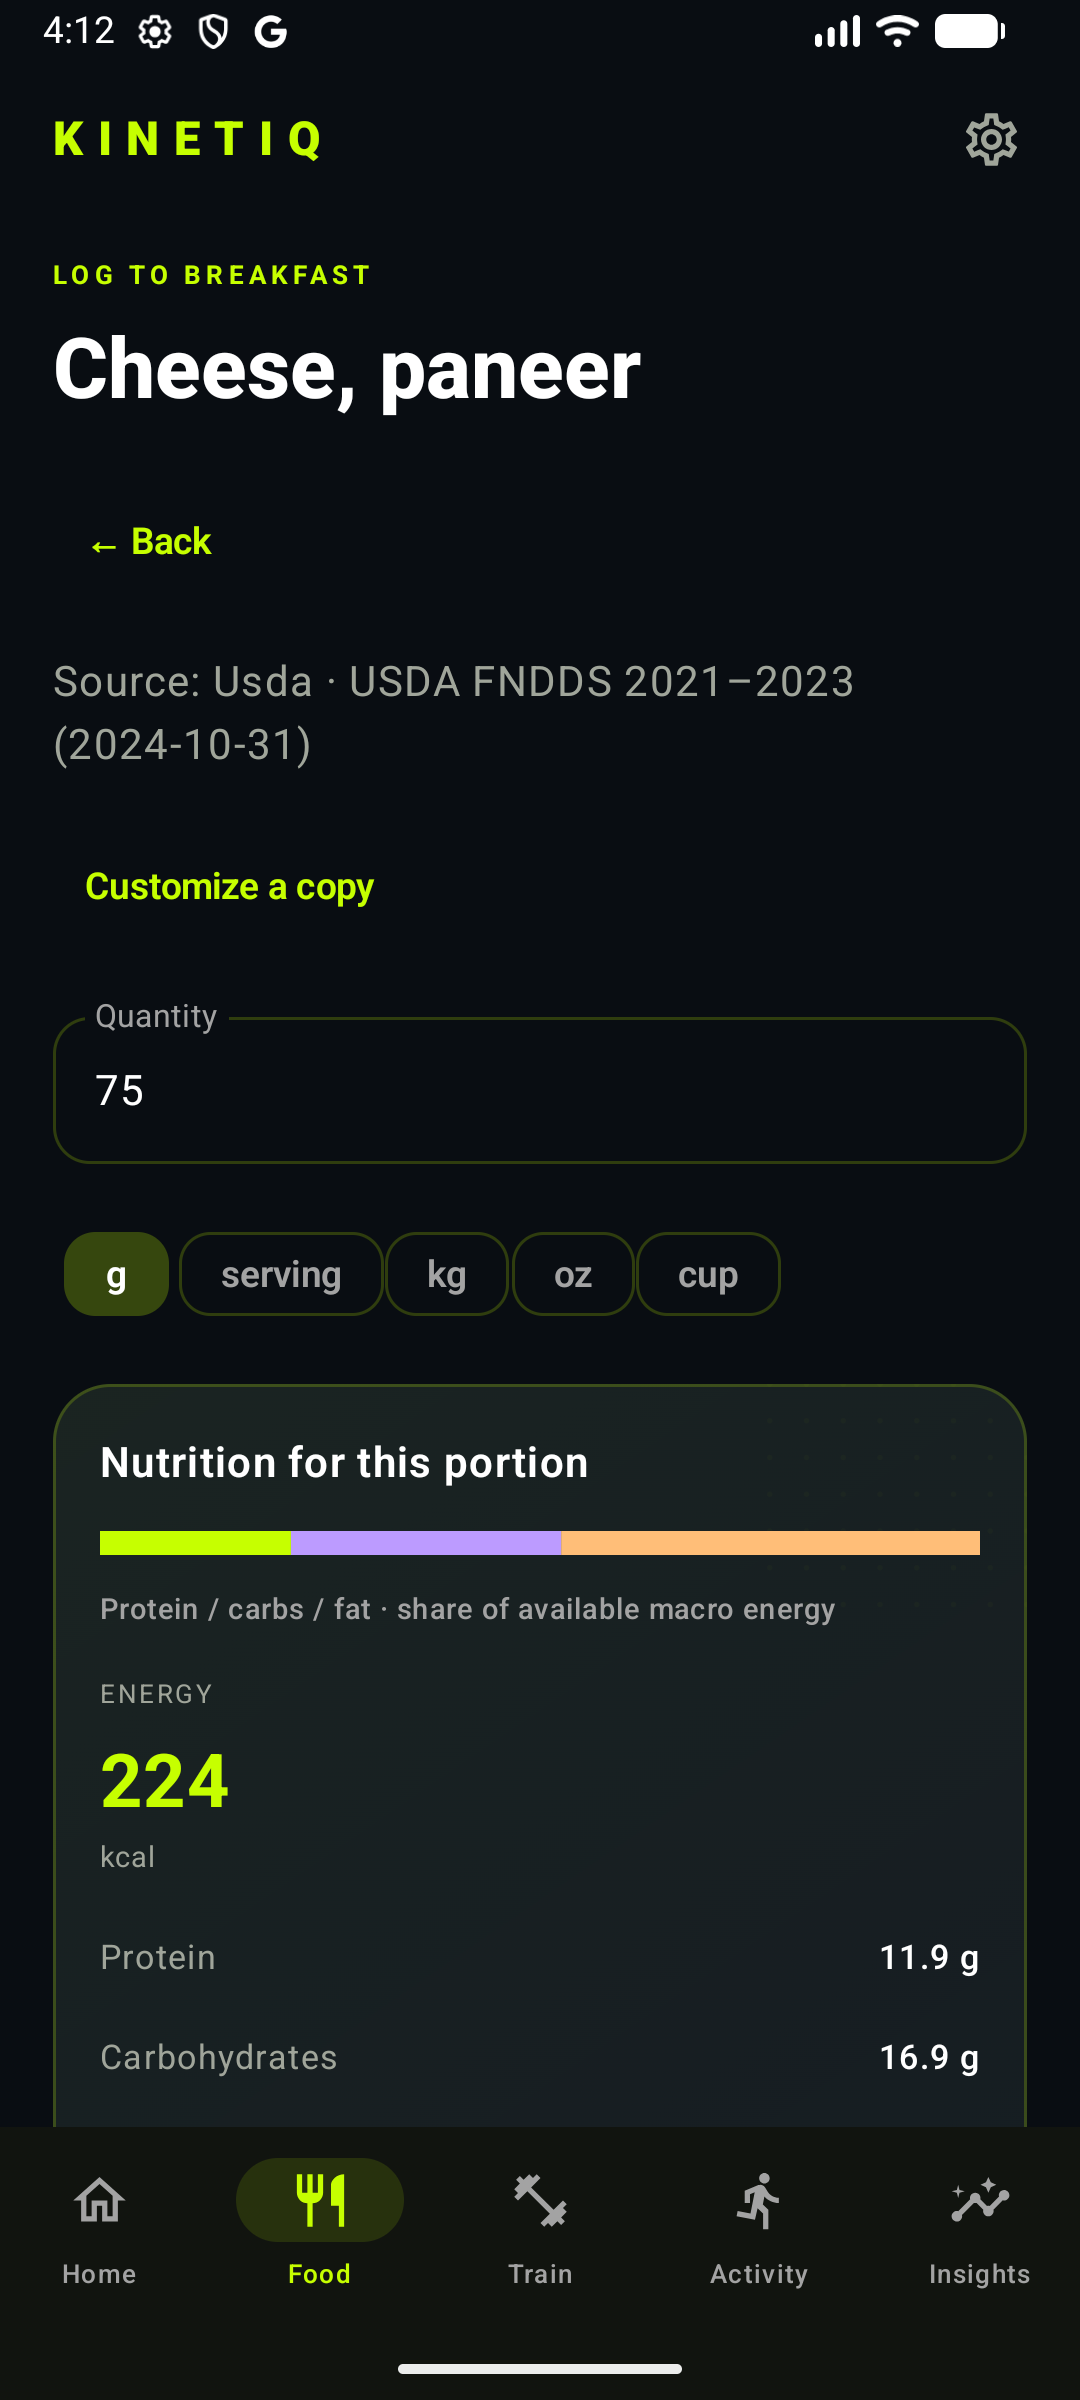
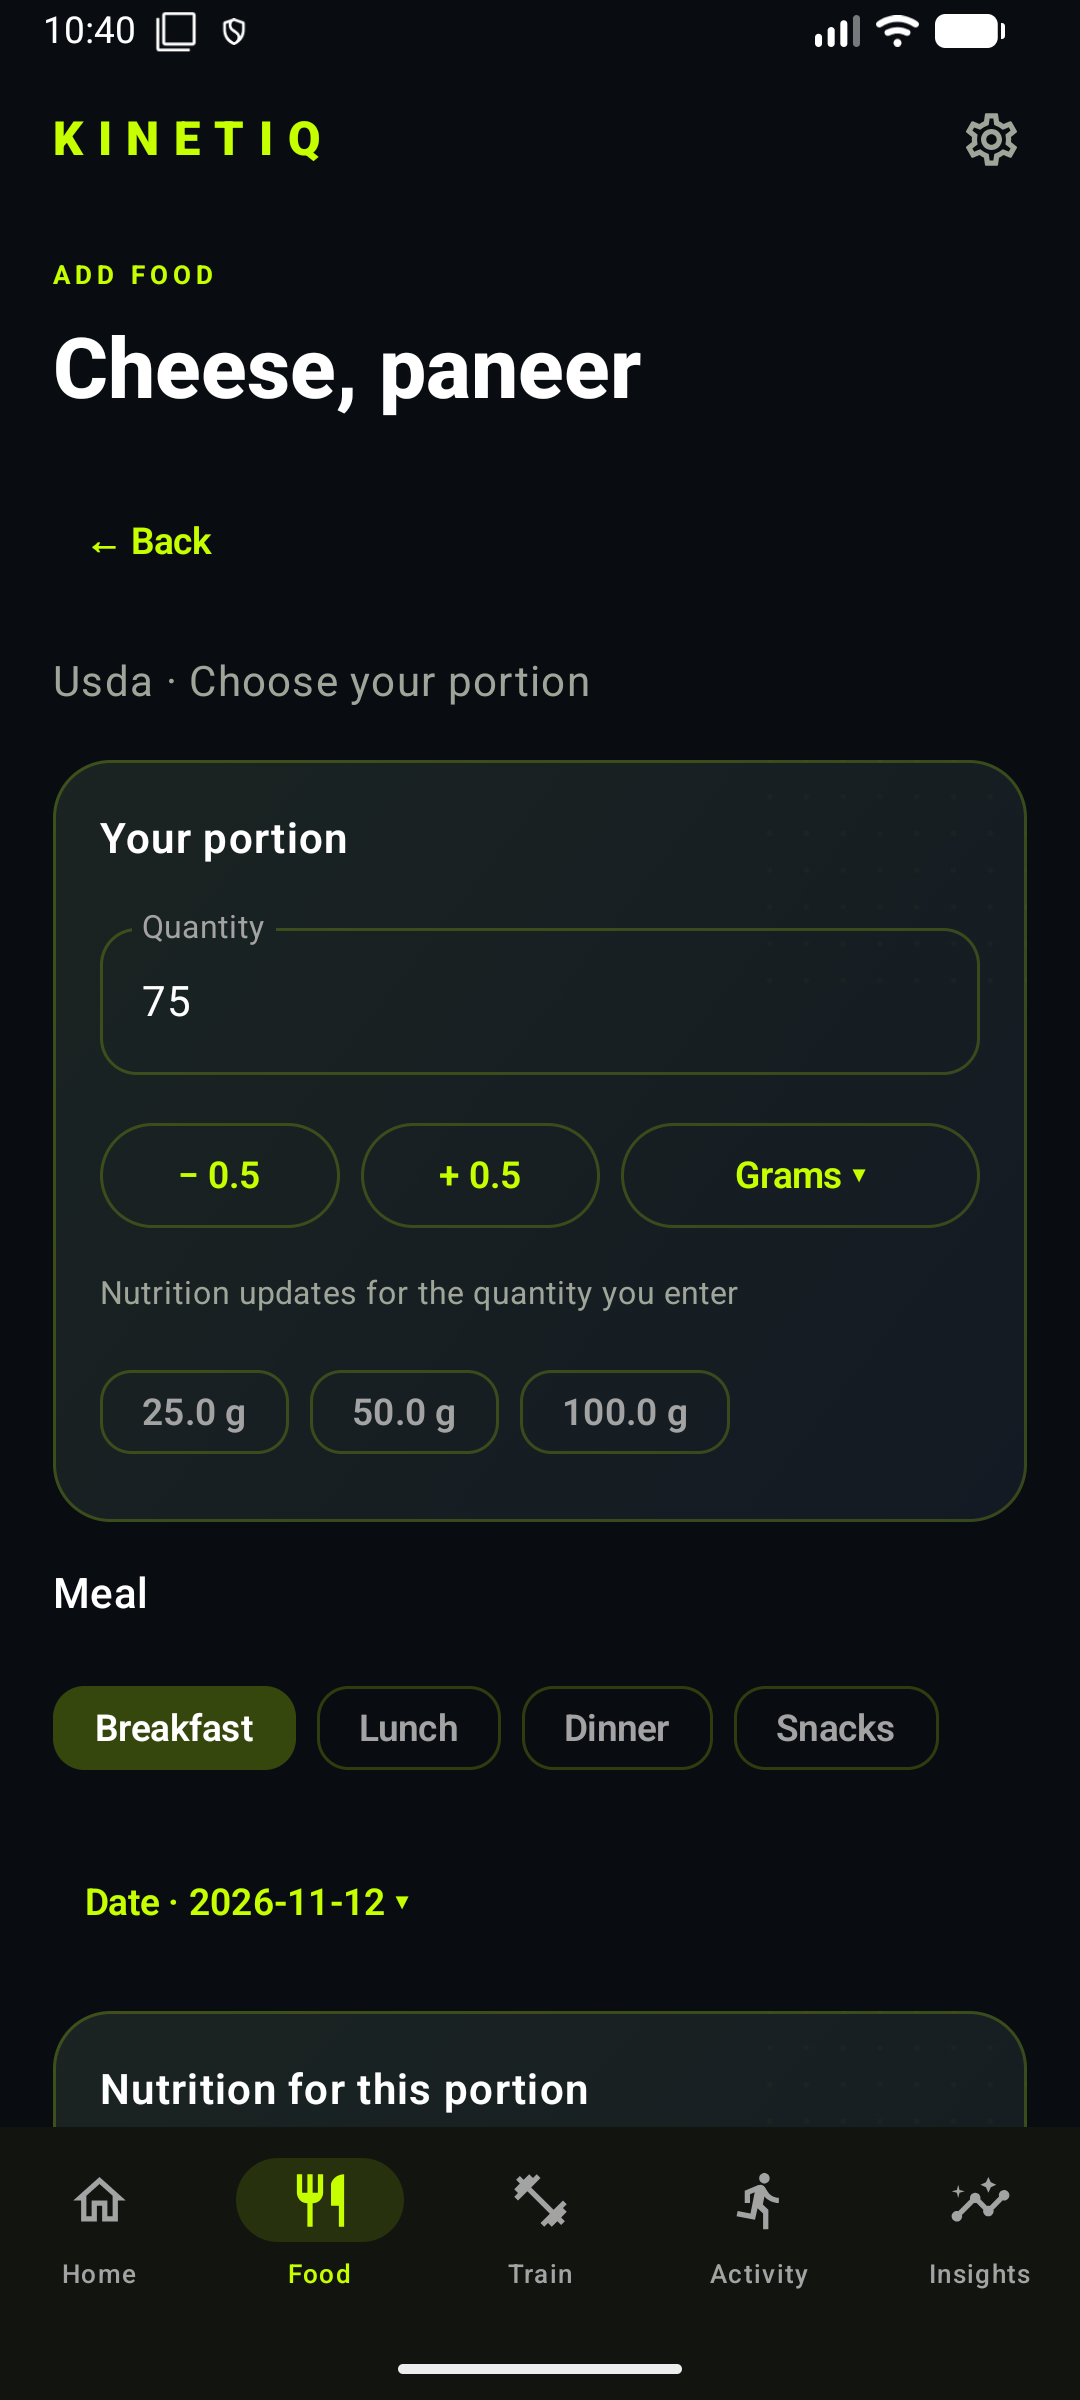
Present KINETIQ smart nutrition Beta with isolated QA screenshots

diff --git a/README.md b/README.md
@@ -6,18 +6,20 @@ I wanted a fitness app that brought those things together, so I started building
 
 **[Download the Beta APK →](https://github.com/vaishnavg121/kinetiq-releases/releases)**
 
-Current Beta: **2.4.0-beta.2 · code 8** ([release and APKs](https://github.com/vaishnavg121/kinetiq-releases/releases/tag/v8-beta)). [Verification](READABILITY.md) · [Updated selection screens](docs/assets/).
+Current Beta: **2.6.0-beta.1 · code 10** ([release and APKs](https://github.com/vaishnavg121/kinetiq-releases/releases/tag/v10-beta)).
 
 <table>
 <tr><td><img src="docs/assets/01-home.png" width="260" alt="KINETIQ Home"></td><td><img src="docs/assets/03-food-search.png" width="260" alt="Offline food search"></td><td><img src="docs/assets/05-exercise-library.png" width="260" alt="Illustrated exercise library"></td></tr>
 <tr><td><img src="docs/assets/04-food-quantity.png" width="260" alt="Food-specific quantities and nutrition"></td><td><img src="docs/assets/08-activity-detail.png" width="260" alt="Saved GPS route"></td><td><img src="docs/assets/09-share-preview.png" width="260" alt="Actual route share preview"></td></tr>
 </table>
 
-These are real emulator screens using isolated local QA records. The London route is simulated; the workout set is a draft example. No personal fitness records or simulated Spotify playback are presented as real activity.
+These are actual code-10 emulator screens using isolated local QA records. [Screenshot provenance and checksums](docs/screenshot-provenance.json). The London route is simulated; the workout set is a draft example. No personal fitness records or simulated Spotify playback are presented as real activity.
 
 - **Quick choices:** food and exercise pickers open on recent choices or favorites. Search the full library when you need something new; detailed nutrition, instructions and sources stay on the detail screen.
+- **Smart nutrition:** food starts at quantity 1.0, supports verified portions and decimal amounts, and can be edited under its original diary record. Explore all 30 stored nutrients, personal goals, macro/meal charts and contributing foods. Missing nutrients remain unknown. Home separates the food target from configurable estimated expenditure; typical exercise is not added again to a maintenance estimate.
 - **Food that works offline:** 13,118 source-backed USDA entries, local search and aliases, food-specific portions, custom nutrition, recipes and repeat meals. Online lookups are optional.
-- **Training:** 1,064 catalog records, offline visuals, muscle/equipment/movement filters, favorites, custom exercises, sets, timers, supersets, templates and PR history.
+- **Training:** 1,064 catalog records, offline visuals, pause/resume with saved drafts, completion summaries, supersets, templates and working-set PR history. 267 exact source-pose pairs support offline two-position previews with manual and play/pause controls.
+- **Interactive history:** tap or drag calorie, protein, volume, weight, pace and distribution charts; inspect contributing records and open the diary or session. Calendar filters and custom ranges use stored account data.
 - **Outdoor sessions:** GPS recording, pause/resume, saved routes and GPX. Route drawing works independently of map tiles. Share PNG/JPEG in Story, portrait or square formats, with explicit endpoint privacy controls.
 - **Your profile:** local Guest records, Google sign-in and optional Firestore sync with separate account stores.
 - **Make it yours:** Lime, Blue, Purple, Graphite and AMOLED; dark cards with restrained halftone and spring feedback. Spotify App Remote/Web API integration is optional.
@@ -36,7 +38,7 @@ In KINETIQ, choose **Settings → About → Beta → Check for Updates**, then d
 
 Physical GPS accuracy/OEM background behavior, real Health Connect sensors and a second real Firebase account/device still need phone testing. Spotify login could not be completed on the review emulator, so live playback is unverified. Food providers can return timeouts/rate limits/503s; local search remains available.
 
-Exercise visuals include **268 exact source pose illustrations and 796 labelled muscle-target maps**. Muscle maps are not starting/ending technique demonstrations. Regional Indian dishes and dedicated yoga/Pilates sequences are incomplete; custom foods, recipes and exercises cover personal additions. Source technique content has not been medically reviewed.
+Exercise visuals include **268 source-illustrated movements (267 matched two-position sequences) and 796 labelled muscle-target maps**. Muscle maps are not starting/ending technique demonstrations. Regional Indian dishes and dedicated yoga/Pilates sequences are incomplete; custom foods, recipes and exercises cover personal additions. Source technique content has not been medically reviewed.
 
 ## Credits, code and iteration
 

diff --git a/docs/DATA_SOURCES.md b/docs/DATA_SOURCES.md
@@ -27,6 +27,8 @@ Open Food Facts is optional online lookup/cache only, not part of the bundled US
 
 **Visual coverage:** 268 catalog movements have exact source pose artwork; 796 have original target-muscle diagrams. Every built-in selection row has an offline visual. Full starting/ending pose coverage is incomplete and is not disguised with unrelated artwork. Source descriptions/difficulty have not been clinically reviewed. Missing difficulty is displayed as unrated. General safety cues are informational; no rehabilitation or medical validation is claimed.
 
+267 entries contain a matched `relaxation` / `tension` SVG pair for the exact source movement. Enlarged previews can loop these two unmodified source positions, with manual previous/next controls. This is a **key-position sequence**, not a continuous, biomechanically verified joint animation. No generic motion, new GIFs, videos or unverified photographs are added. Playback stops when the screen is inactive; Android's animation-off setting disables automatic playback and crossfading. The remaining illustrated entry stays static; muscle maps remain clearly labelled. Source attribution and CC BY-SA 4.0 terms remain visible in details. The [source license](https://github.com/everkinetic/data/blob/main/LICENSE.md) is recorded with the pinned source assets.
+
 The catalog covers strength, stretching, power/plyometric movements, functional/strongman and cardio. It does not yet offer a dedicated verified yoga/Pilates sequence library. Custom exercises support user-selected targets, equipment, category, notes and tracking modes.
 
 Rebuild metadata: `python tools/build_offline_exercises.py`. Fetch pinned art: `python tools/fetch_exercise_art.py`. All asset Git blob checksums are verified during ingestion; instrumentation decodes every bundled SVG and asserts visible artwork. Source URLs/licenses and counts are in the manifest. Dataset/art licenses do not relicense unrelated application code or the Spotify SDK.
